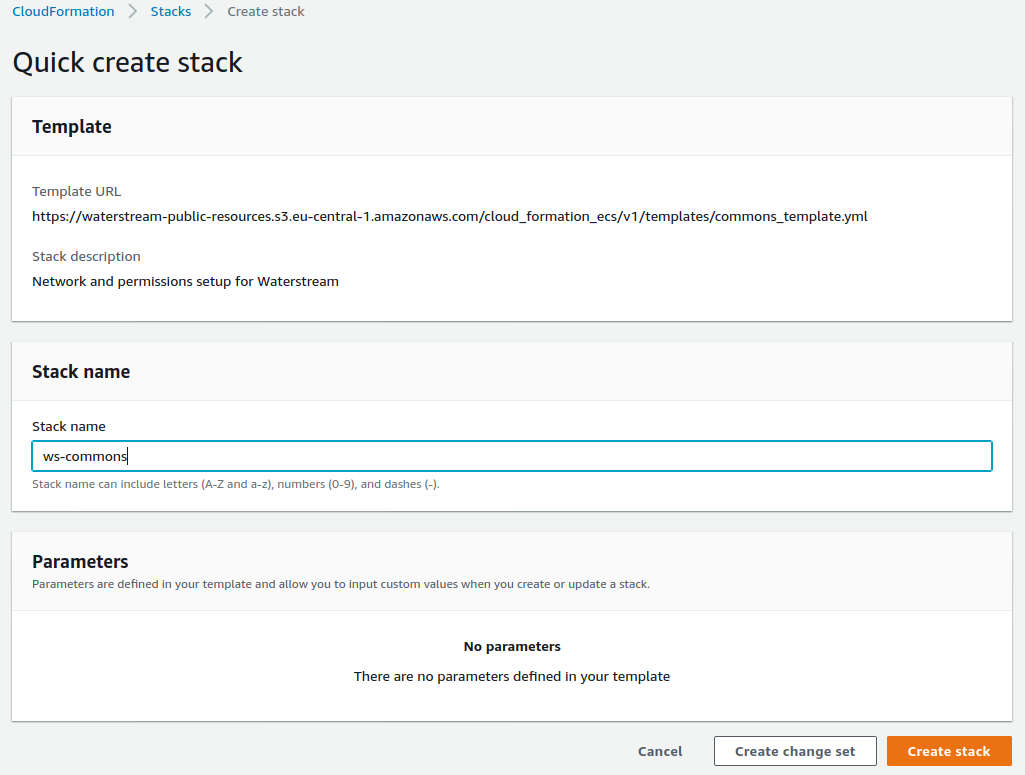
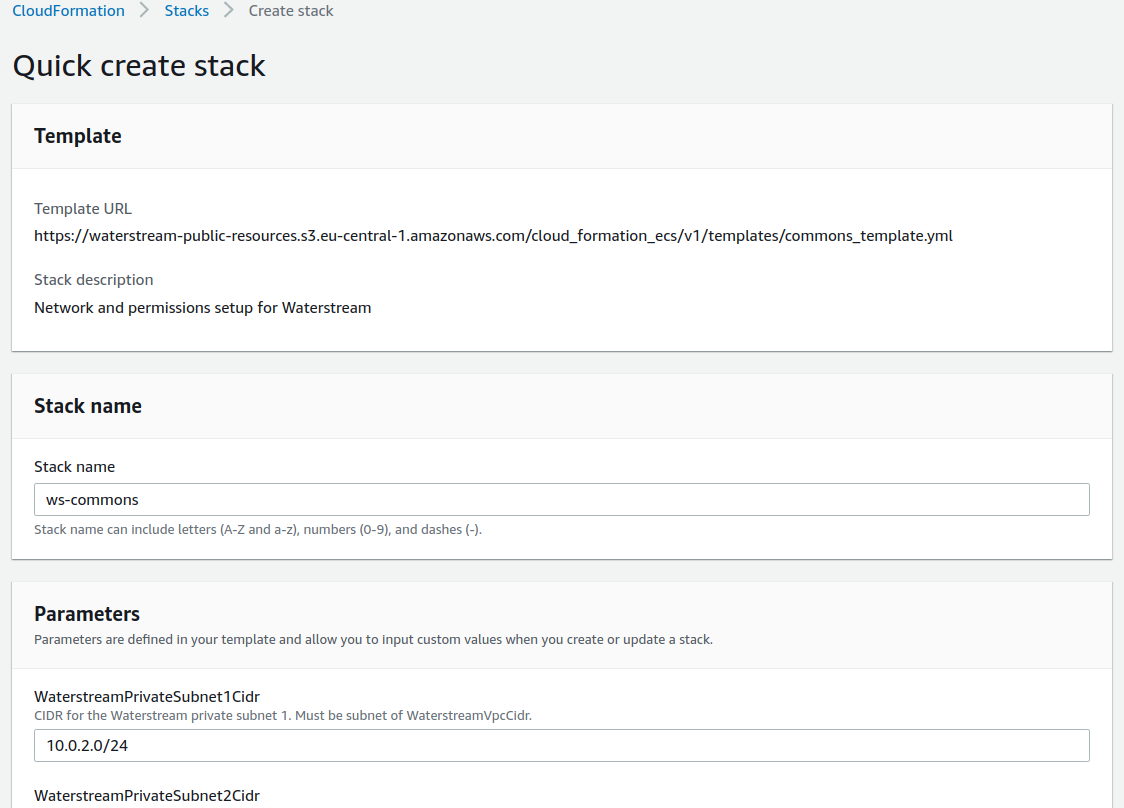
Better validation, improve the docs

diff --git a/README.md b/README.md
@@ -15,11 +15,11 @@ More specifically, they do the following:
 - (optionally) protect MQTT traffic with SSL/TLS, including client authentication 
 - Deploy Prometheus and Grafana with AWS ECS, configure them to fetch metrics from Waterstream
 - Expose Grafana with a load balancer in the public subnets  
-- Launch a testbox - small EC2 instance that has command-line MQTT clients properly configured
+- Launch the testbox - a small EC2 instance that has command-line MQTT clients properly configured
   to connect to Waterstream. If SSL/TLS enabled for Waterstream, the testbox is also responsible
   for creating the local Certificate Authority and issuing certificates for the Waterstream and its clients.
 
-[Quickstart guide](QUICKSTART.md) explains how to run these scripts though AWS Console UI, with minimal upfront effort.
+[Quickstart guide](QUICKSTART.md) explains how to run these scripts through AWS Console UI, with minimal upfront effort.
 This document explains command-line options and more detailed topics.
 
 ![Waterstream AWS ECS architecture diagram](img/waterstream_aws_architecture.png "Waterstream AWS ECS architecture diagram")

diff --git a/QUICKSTART.md b/QUICKSTART.md
@@ -67,7 +67,8 @@ first and then attach it.
 Deploy Commons
 ----------------
 
-[Create VPC and subnets](https://console.aws.amazon.com/cloudformation/home#/stacks/quickcreate?templateUrl=https://waterstream-public-resources.s3.eu-central-1.amazonaws.com/cloud_formation_ecs/v1/templates/commons_template.yml)
+[Create VPC and subnets](https://console.aws.amazon.com/cloudformation/home#/stacks/quickcreate?templateUrl=https://waterstream-public-resources.s3.eu-central-1.amazonaws.com/cloud_formation_ecs/v1/templates/commons_template.yml).
+You may customize the subnet CIDRs.
 
 ![Commons stack create](img/ws_commons_create.png "Commons stack create")
 
